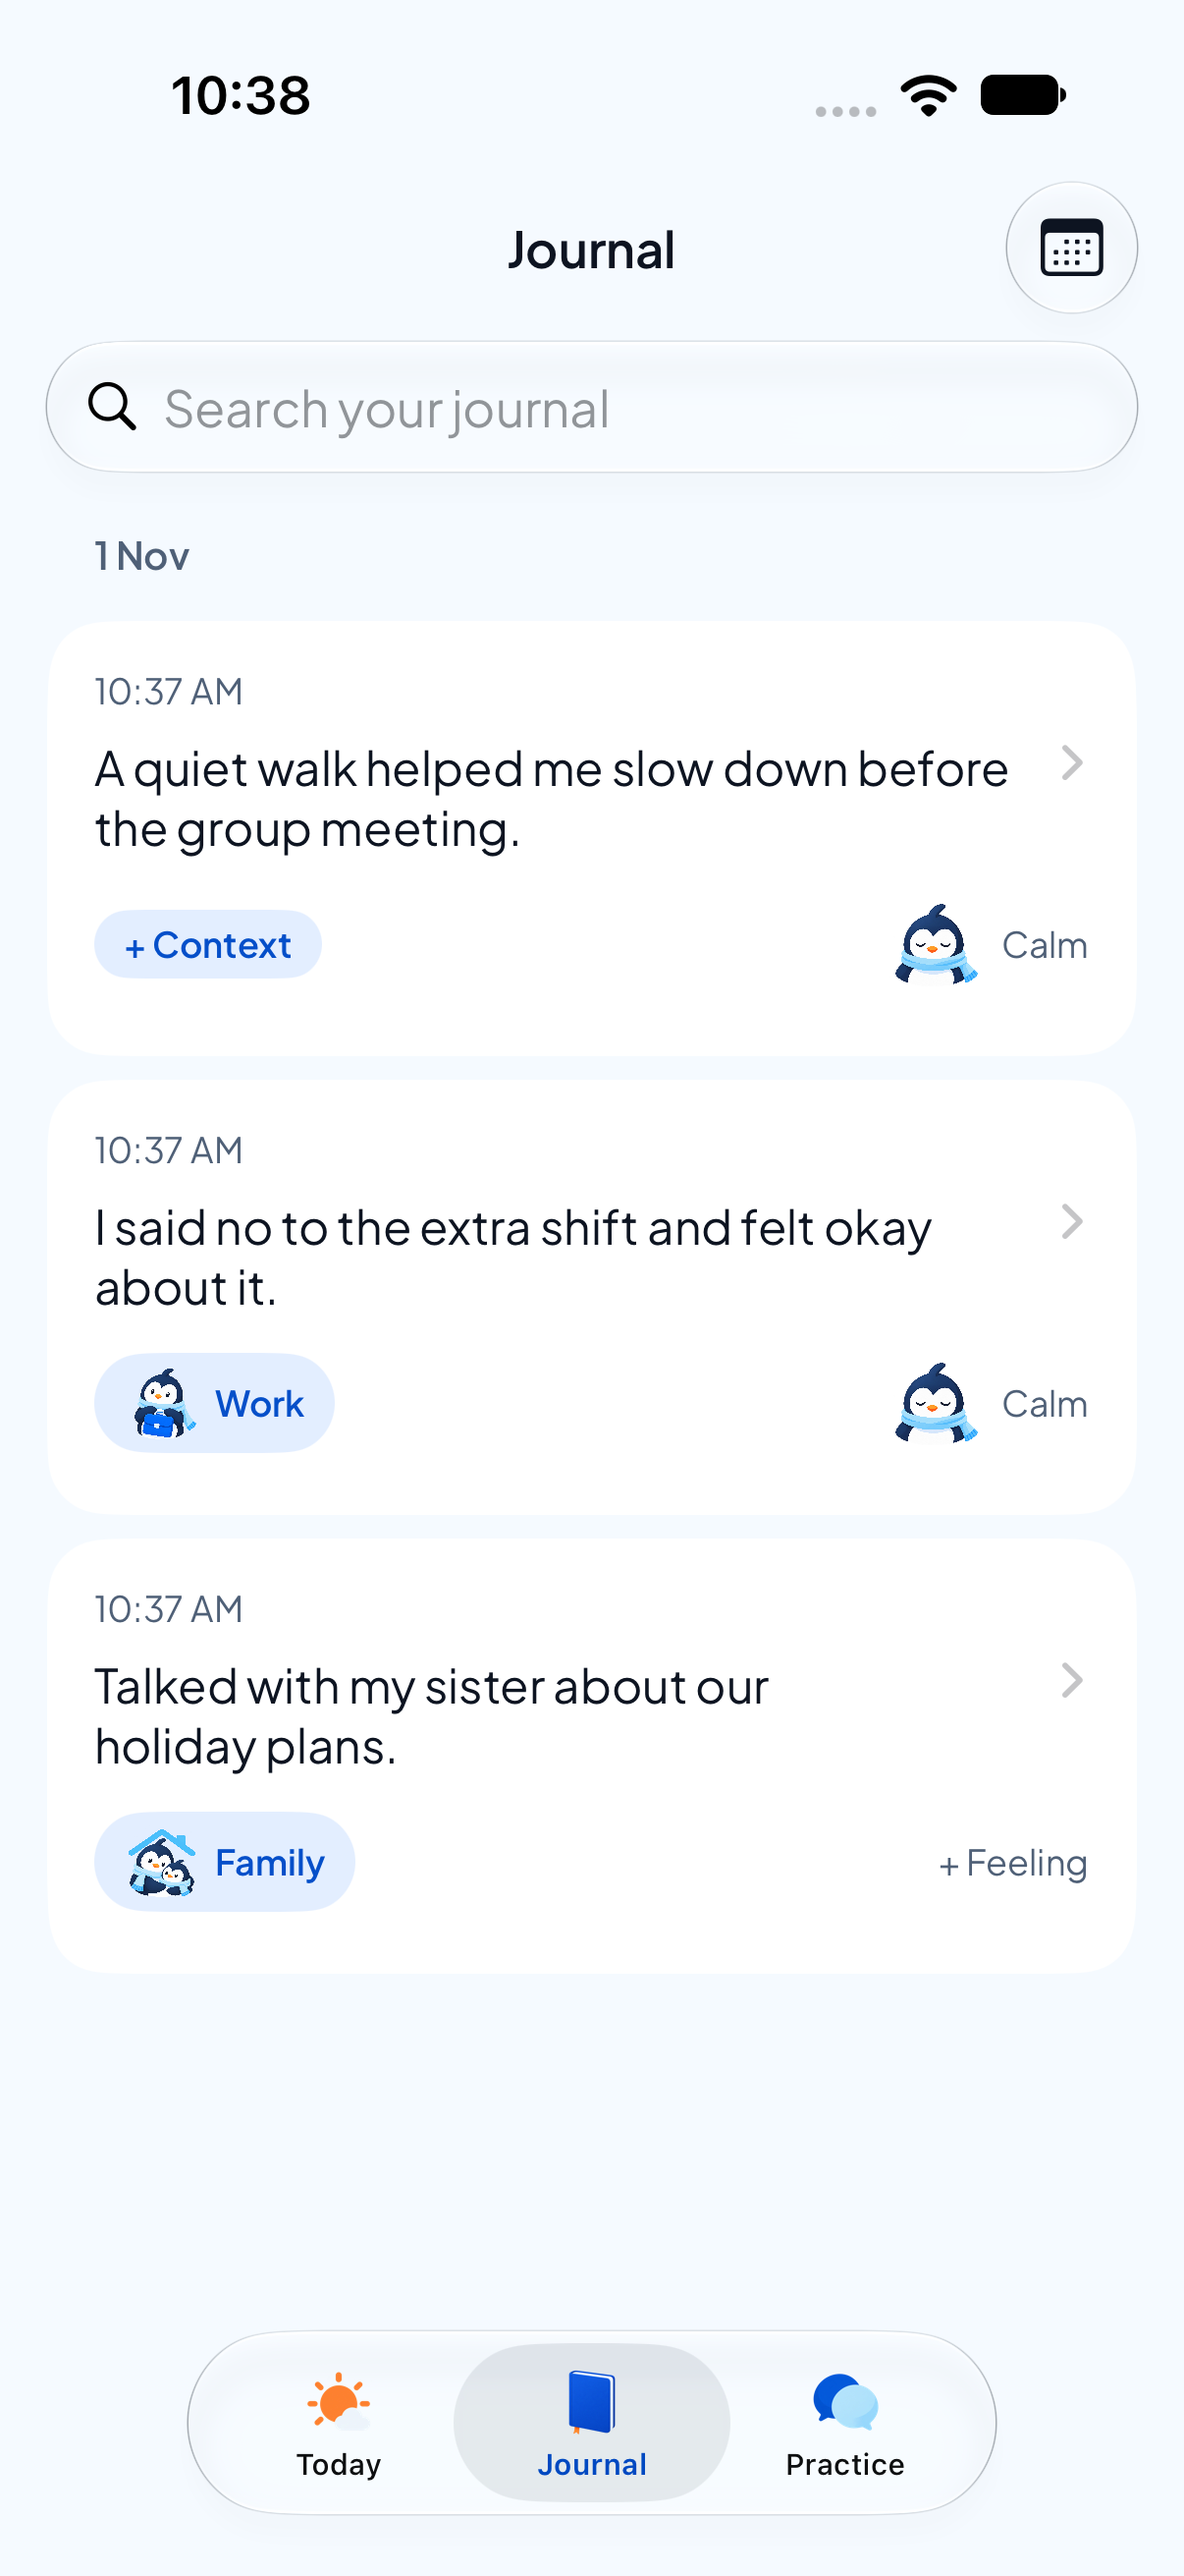
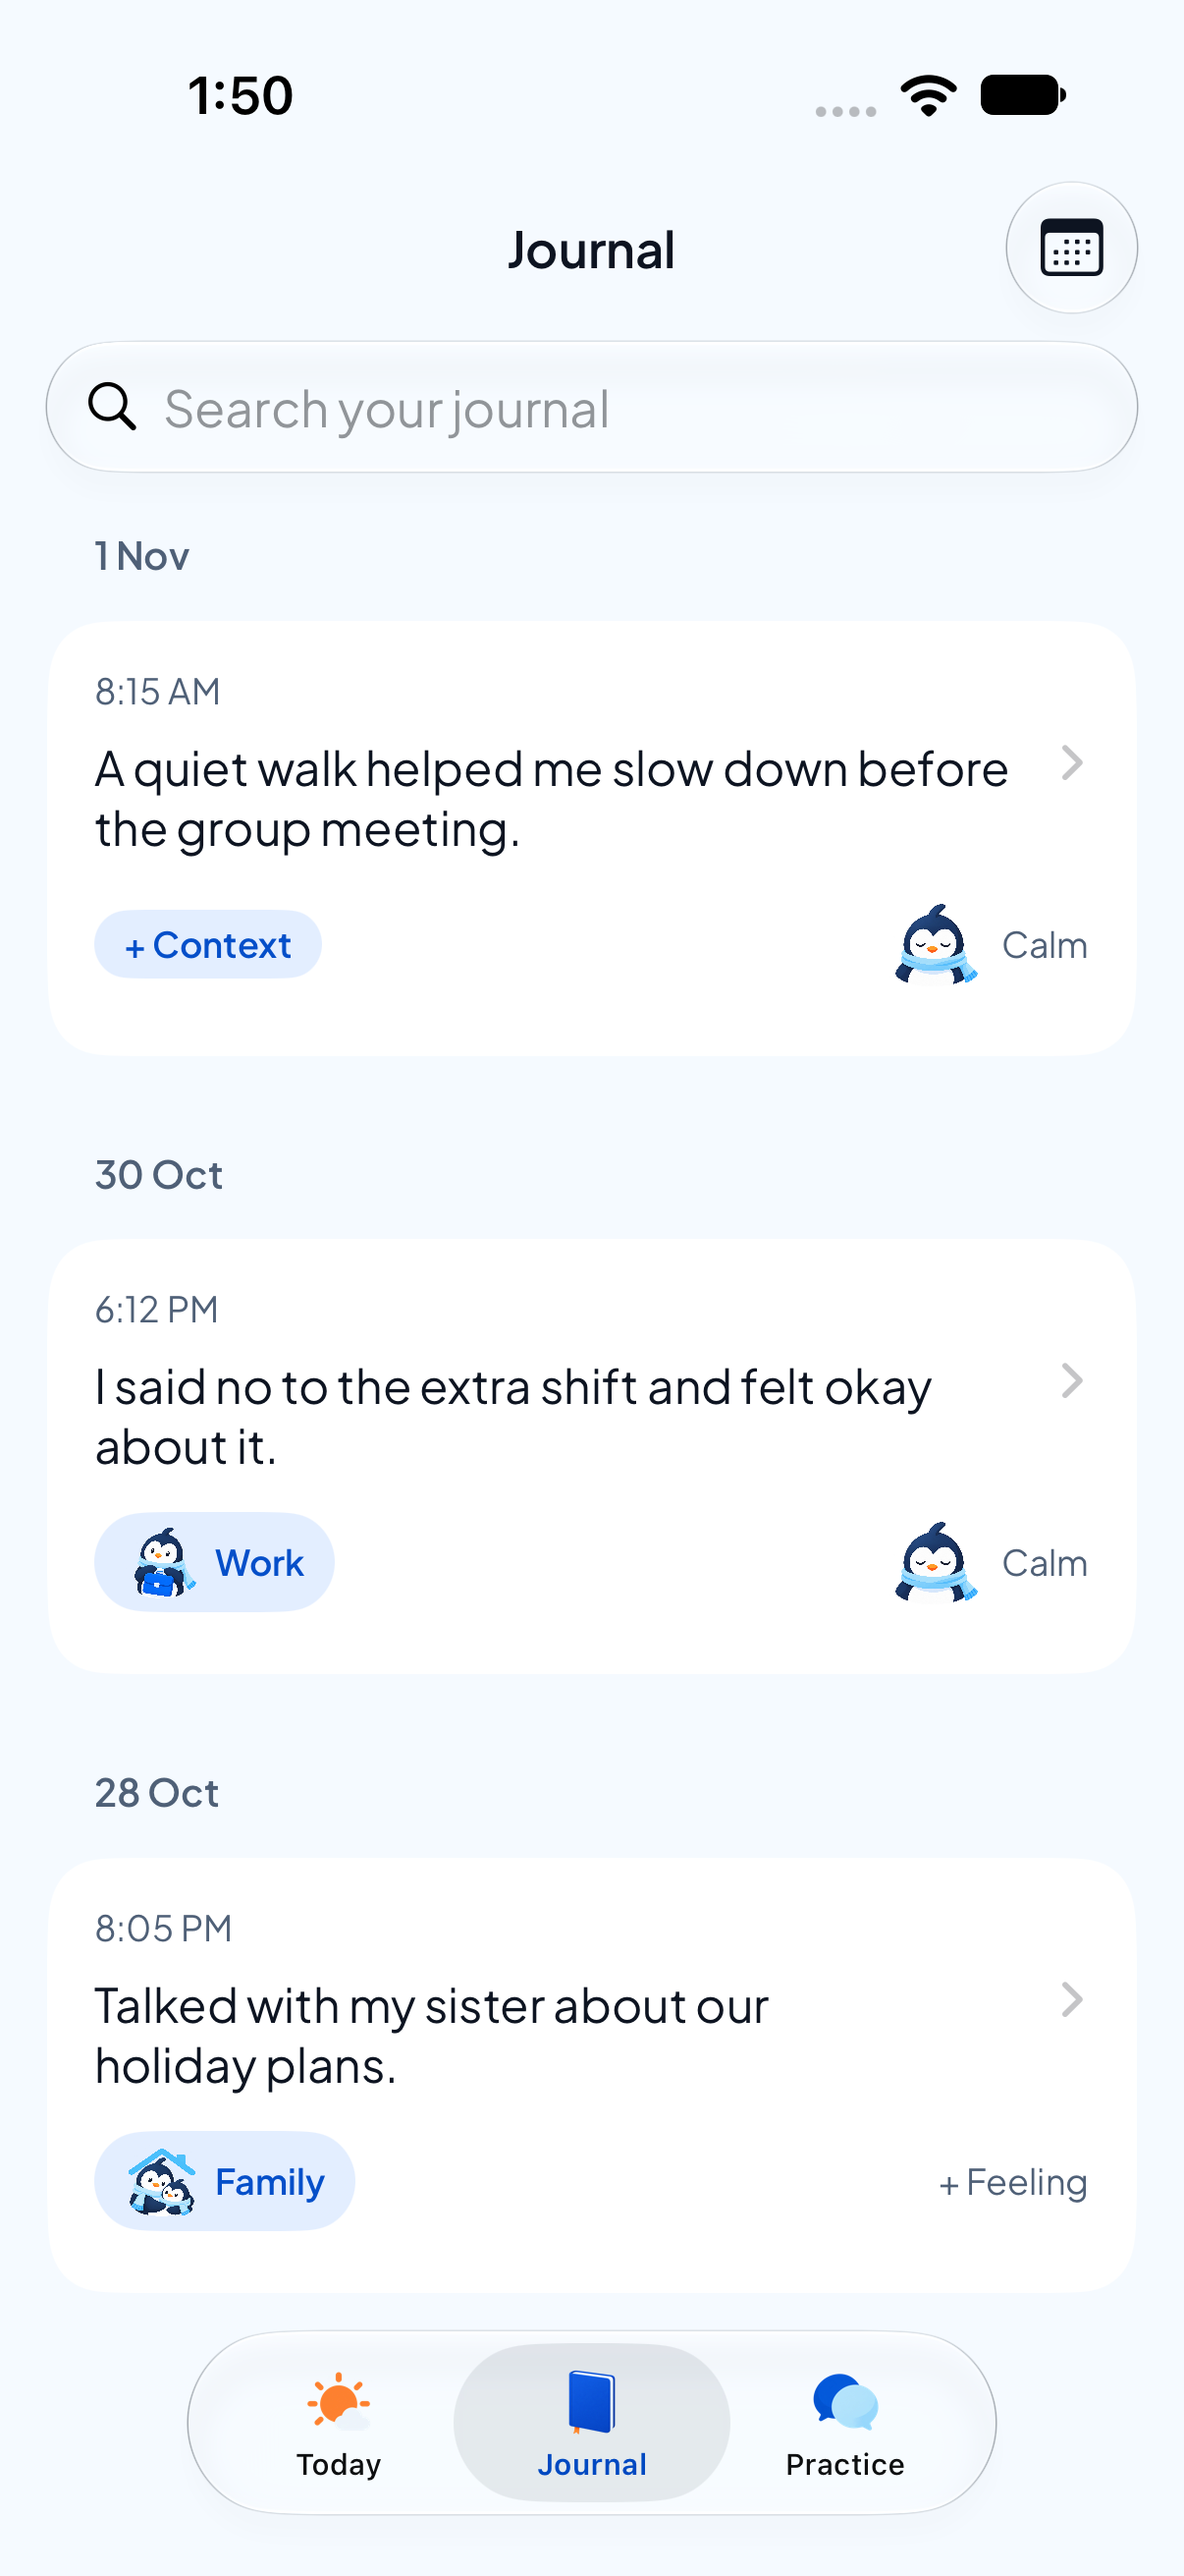
feat(debug): -CircleUSeedShowcase seeds three dated, tagged entries; poster lockup larger
Debug-only launch argument imports three invented Journal entries on different days with context and feeling tags through the legacy-import path, so showcase captures show a lived-in Journal. The capture UI test uses it instead of typing entries. Poster: lockup at 84px with multiply blending; captures refreshed.

diff --git a/Circleu/Features/GuestJournal/GuestRootView.swift b/Circleu/Features/GuestJournal/GuestRootView.swift
@@ -31,6 +31,33 @@ struct GuestComposition {
 
     static var live: GuestComposition { GuestComposition(location: GuestJournalLocation.standard) }
 
+    #if DEBUG
+    /// Invented entries on three different days, with context and feeling tags, so poster and slide
+    /// captures show a lived-in Journal. Uses the import path, which keeps the given dates.
+    static func seedShowcase(into store: SwiftDataGuestJournalStore) async {
+        let calendar = Calendar.current
+        func at(daysAgo: Int, _ hour: Int, _ minute: Int) -> Date {
+            let day = calendar.date(byAdding: .day, value: -daysAgo, to: Date()) ?? Date()
+            return calendar.date(bySettingHour: hour, minute: minute, second: 0, of: day) ?? day
+        }
+        let seeds: [(words: String, date: Date, context: GuestEntryContext?, feeling: GuestEntryFeeling?)] = [
+            ("A quiet walk helped me slow down before the group meeting.", at(daysAgo: 0, 8, 15), nil, .calm),
+            ("I said no to the extra shift and felt okay about it.", at(daysAgo: 2, 18, 12), .work, .calm),
+            ("Talked with my sister about our holiday plans.", at(daysAgo: 4, 20, 5), .family, nil),
+        ]
+        let imported = seeds.map {
+            GuestImportedEntry(legacyID: UUID(), originalWords: $0.words, createdAt: $0.date, updatedAt: $0.date, reflection: nil)
+        }
+        guard (try? await store.importLegacy(entries: imported, messages: [])) != nil,
+              let entries = try? await store.loadAll() else { return }
+        for seed in seeds {
+            guard let entry = entries.first(where: { $0.originalWords == seed.words }) else { continue }
+            _ = try? await store.updateTags(id: entry.id, context: seed.context, feeling: seed.feeling,
+                                            expectedRevision: entry.revision)
+        }
+    }
+    #endif
+
     /// The live composition at another location (tests use a temporary folder).
     static func local(at location: GuestJournalLocation) -> GuestComposition {
         GuestComposition(location: { location })
@@ -57,6 +84,10 @@ struct GuestComposition {
         #endif
         let location = try location()
         let store = try await SwiftDataGuestJournalStore.open(location: location)
+        #if DEBUG
+        // UI tests only: three dated, tagged entries for showcase captures (launch argument), after a reset.
+        if UserDefaults.standard.bool(forKey: "CircleUSeedShowcase") { await Self.seedShowcase(into: store) }
+        #endif
         // Drafts live in the store; a draft kept in an older file is moved across once.
         let writeDrafts = StoreGuestDraftStore(store: store, slot: StoreGuestDraftStore.writeSlot)
         let practiceDrafts = StoreGuestDraftStore(store: store, slot: StoreGuestDraftStore.practiceSlot)

diff --git a/CircleuUITests/GuestShowcaseCaptureUITests.swift b/CircleuUITests/GuestShowcaseCaptureUITests.swift
@@ -12,34 +12,14 @@ final class GuestShowcaseCaptureUITests: XCTestCase {
         app.staticTexts.containing(NSPredicate(format: "label CONTAINS %@", text)).firstMatch.waitForExistence(timeout: timeout)
     }
 
-    private func save(_ app: XCUIApplication, _ words: String, context: String?, feeling: String?) {
-        app.tabBars.buttons["Today"].tap()
-        let editor = app.textViews["Your words"]
-        XCTAssertTrue(editor.waitForExistence(timeout: 10))
-        editor.tap(); editor.typeText(words)
-        app.buttons["Save"].tap()
-        XCTAssertTrue(app.buttons["Not now"].waitForExistence(timeout: 10))
-        app.buttons["Not now"].tap()
-        guard context != nil || feeling != nil else { return }
-        XCTAssertTrue(app.buttons["Add context"].waitForExistence(timeout: 10))
-        app.buttons["Add context"].tap()
-        if let context { app.buttons[context].tap() }
-        if let feeling { app.buttons[feeling].tap() }
-        app.buttons["Done"].tap()
-        if let context { XCTAssertTrue(app.buttons["Context: \(context)"].waitForExistence(timeout: 5)) }
-    }
-
     func testCaptureShowcaseScreens() throws {
         continueAfterFailure = false
-        let app = launchGuest(fresh: true, ["-CircleUGuidedSuggestions", "YES"])
-        save(app, "Talked with my sister about our holiday plans.", context: "Family", feeling: nil)
-        save(app, "I said no to the extra shift and felt okay about it.", context: "Work", feeling: "Calm")
-        save(app, "A quiet walk helped me slow down before the group meeting.", context: nil, feeling: "Calm")
+        // The app seeds three dated, tagged entries (today, two and four days ago) at launch.
+        let app = launchGuest(fresh: true, ["-CircleUGuidedSuggestions", "YES", "-CircleUSeedShowcase", "YES"])
         app.tabBars.buttons["Journal"].tap()
         XCTAssertTrue(has(app, "A quiet walk helped me slow down", 10))
-        // Let the Saved banner go before the capture.
-        let close = app.buttons["Not now"]
-        if close.waitForExistence(timeout: 2) { close.tap() }
+        XCTAssertTrue(has(app, "Talked with my sister"))
+        XCTAssertTrue(app.buttons["Context: Family"].exists && app.buttons["Feeling: Calm"].exists, "seeded tags")
         shot(app, "showcase-journal")
 
         app.tabBars.buttons["Today"].tap()

diff --git a/docs/design/showcase-2026-10-30/refinement-07/poster.html b/docs/design/showcase-2026-10-30/refinement-07/poster.html
@@ -37,7 +37,8 @@
                       font-size: 17px; font-weight: 800; display: inline-flex; align-items: center; justify-content: center; flex: none; }
   .trust { margin-top: 26px; font-size: 16px; font-weight: 600; color: #054fc9; }
   .foot { position: absolute; left: 66px; bottom: 30px; display: flex; align-items: flex-end; gap: 22px; }
-  .foot img.lockup { height: 60px; }
+  /* The official lockup is black on white; multiply lets the ice show through its white box. */
+  .foot img.lockup { height: 84px; mix-blend-mode: multiply; }
   .foot img.pingu { height: 104px; margin-bottom: -6px; filter: drop-shadow(0 10px 16px rgba(13,20,33,.2)); }
 
   .phones { position: absolute; left: 472px; top: 44px; width: 600px; height: 676px; }

diff --git a/docs/design/showcase-2026-10-30/refinement-07/poster-linkedin.html b/docs/design/showcase-2026-10-30/refinement-07/poster-linkedin.html
@@ -38,7 +38,7 @@
                       font-size: 17px; font-weight: 800; display: inline-flex; align-items: center; justify-content: center; flex: none; }
   .trust { margin-top: 26px; font-size: 16px; font-weight: 600; color: #054fc9; }
   .foot { position: absolute; left: 66px; bottom: 30px; display: flex; align-items: flex-end; gap: 22px; }
-  .foot img.lockup { height: 60px; }
+  .foot img.lockup { height: 84px; mix-blend-mode: multiply; }
   .foot img.pingu { height: 104px; margin-bottom: -6px; filter: drop-shadow(0 10px 16px rgba(13,20,33,.2)); }
 
   .phones { position: absolute; left: 472px; top: 44px; width: 600px; height: 676px; }

diff --git a/docs/design/showcase-2026-10-30/refinement-07/README.md b/docs/design/showcase-2026-10-30/refinement-07/README.md
@@ -11,10 +11,10 @@
 
 | Element | Source |
 | --- | --- |
-| Journal, Today and Practice screens | `GuestShowcaseCaptureUITests.testCaptureShowcaseScreens` on the iPhone 18 Pro Simulator, iOS 27.0: a seeded Journal with three tagged entries, the empty Today screen, and the Practice result for an invented group-project message with guided suggestions |
+| Journal, Today and Practice screens | `GuestShowcaseCaptureUITests.testCaptureShowcaseScreens` on the iPhone 18 Pro Simulator, iOS 27.0: a Journal seeded by the Debug launch argument `-CircleUSeedShowcase` with three tagged entries on three days (today, two and four days ago), the empty Today screen, and the Practice result for an invented group-project message with guided suggestions |
 | Background, wordmark and Pingu | `refinement-04/assets/arctic-background.png`, `BrandArtwork/Expansion05/PinguConsideringV1.png`, `BrandArtwork/BrandLogo.png` and `EmotionPortraits02/PinguCalmTransparentV1.png`, all unchanged files |
 | Type | Bundled Plus Jakarta Sans; headline 44 px, intro 18.5 px, steps 24 px, trust line 16 px on the 1280 × 720 canvas |
-| Program lockup | The same UTS Apple Foundation Program image as refinement 04–06; not a claim of endorsement |
+| Program lockup | The same UTS Apple Foundation Program image as refinement 04–06, shown larger with `mix-blend-mode: multiply` so its white box lets the ice through; the mark itself is unchanged. Not a claim of endorsement |
 
 Owner review, 1 November: background is the existing empty arctic scene (refinement 04) with the sitting, considering Pingu from refinement-04 slide 2 (`Expansion05/PinguConsideringV1.png`) on the ice shelf at the right with a ground shadow, the screen captions and the two footer notes are removed, Pingu sits beside the program lockup, the example quotes are replaced by three steps (Write it down. Tag how it felt. Find your words.) with the line "Private by design. Kept on your iPhone.", and the phones are back at full size between the copy and Pingu. The poster carries no "Design mockups" disclaimer because the screens are real.
 

diff --git a/docs/agent-collaboration-log/2026-11-01-104500-claude-audit-bugs-and-poster-v7.md b/docs/agent-collaboration-log/2026-11-01-104500-claude-audit-bugs-and-poster-v7.md
@@ -24,3 +24,7 @@ Focused unit run (validation, suggestion, copy-lint, message-first tests): 15 pa
 ## Review and result
 
 Full suites on the branch: unit 292 passed, 1 device-only skip; UI 30 run, 29 passed, 1 live-Firebase skip; 0 failures. Codex (`gpt-6-astra`, read-only): no blockers. Applied: tones trimmed with `.whitespacesAndNewlines`, with a test for exactly 60 words and an invalid option followed by a valid one. Left for later: injected defaults instead of `nonisolated(unsafe)` on `GuestLegacyImport.source`; large-text/VoiceOver coverage of inline Compare. Merged as PR 45 under the auto-merge rule.
+
+## Poster revisions (1 November, owner review)
+
+Owner review moved the poster through: arctic artwork background; captions and footer notes removed; Pingu beside the lockup; three-step copy with "Private by design. Kept on your iPhone."; the sitting, considering Pingu from refinement-04 slide 2 on the ice (a clipped crop of the v6 artwork showed seams and was dropped); a LinkedIn 1.91:1 version from the same page; the lockup larger with multiply blending. For dated Journal entries, a Debug-only launch argument `-CircleUSeedShowcase` imports three invented entries on three days with tags through the legacy-import path; `GuestShowcaseCaptureUITests` uses it. PRs 46–51 were docs-only; the seed is app code and goes through the suites and a Codex pass.
